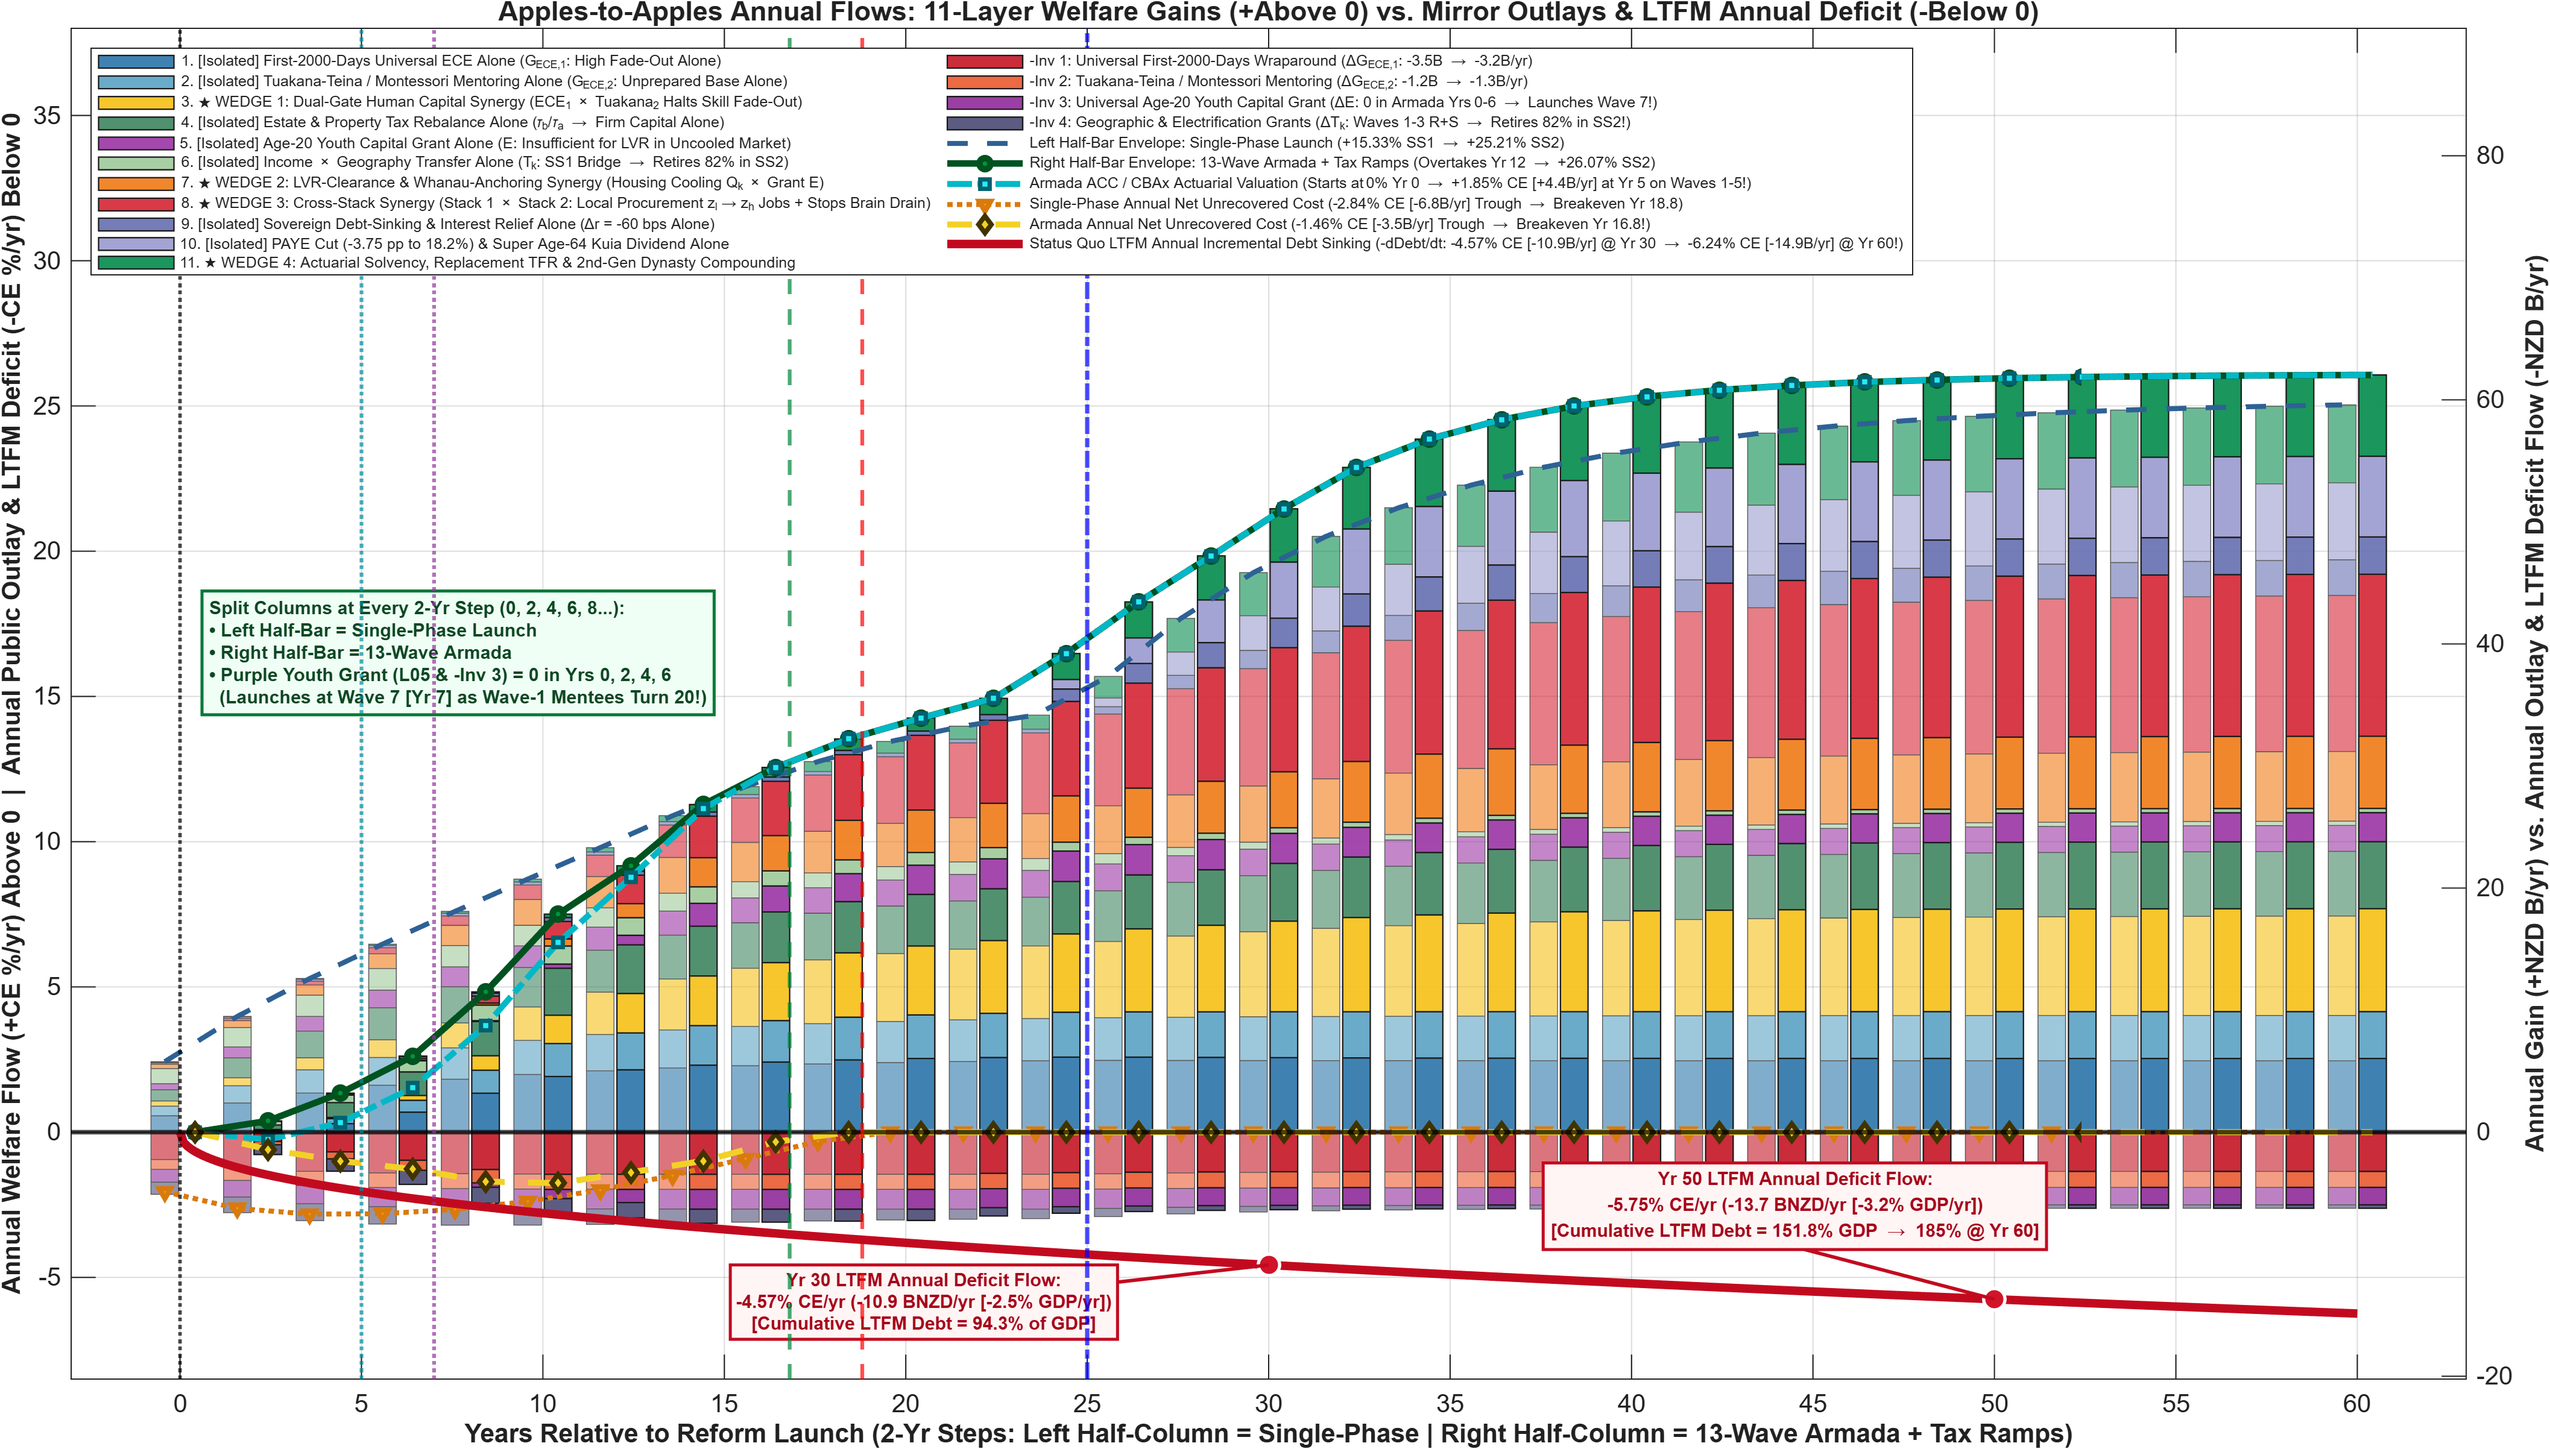
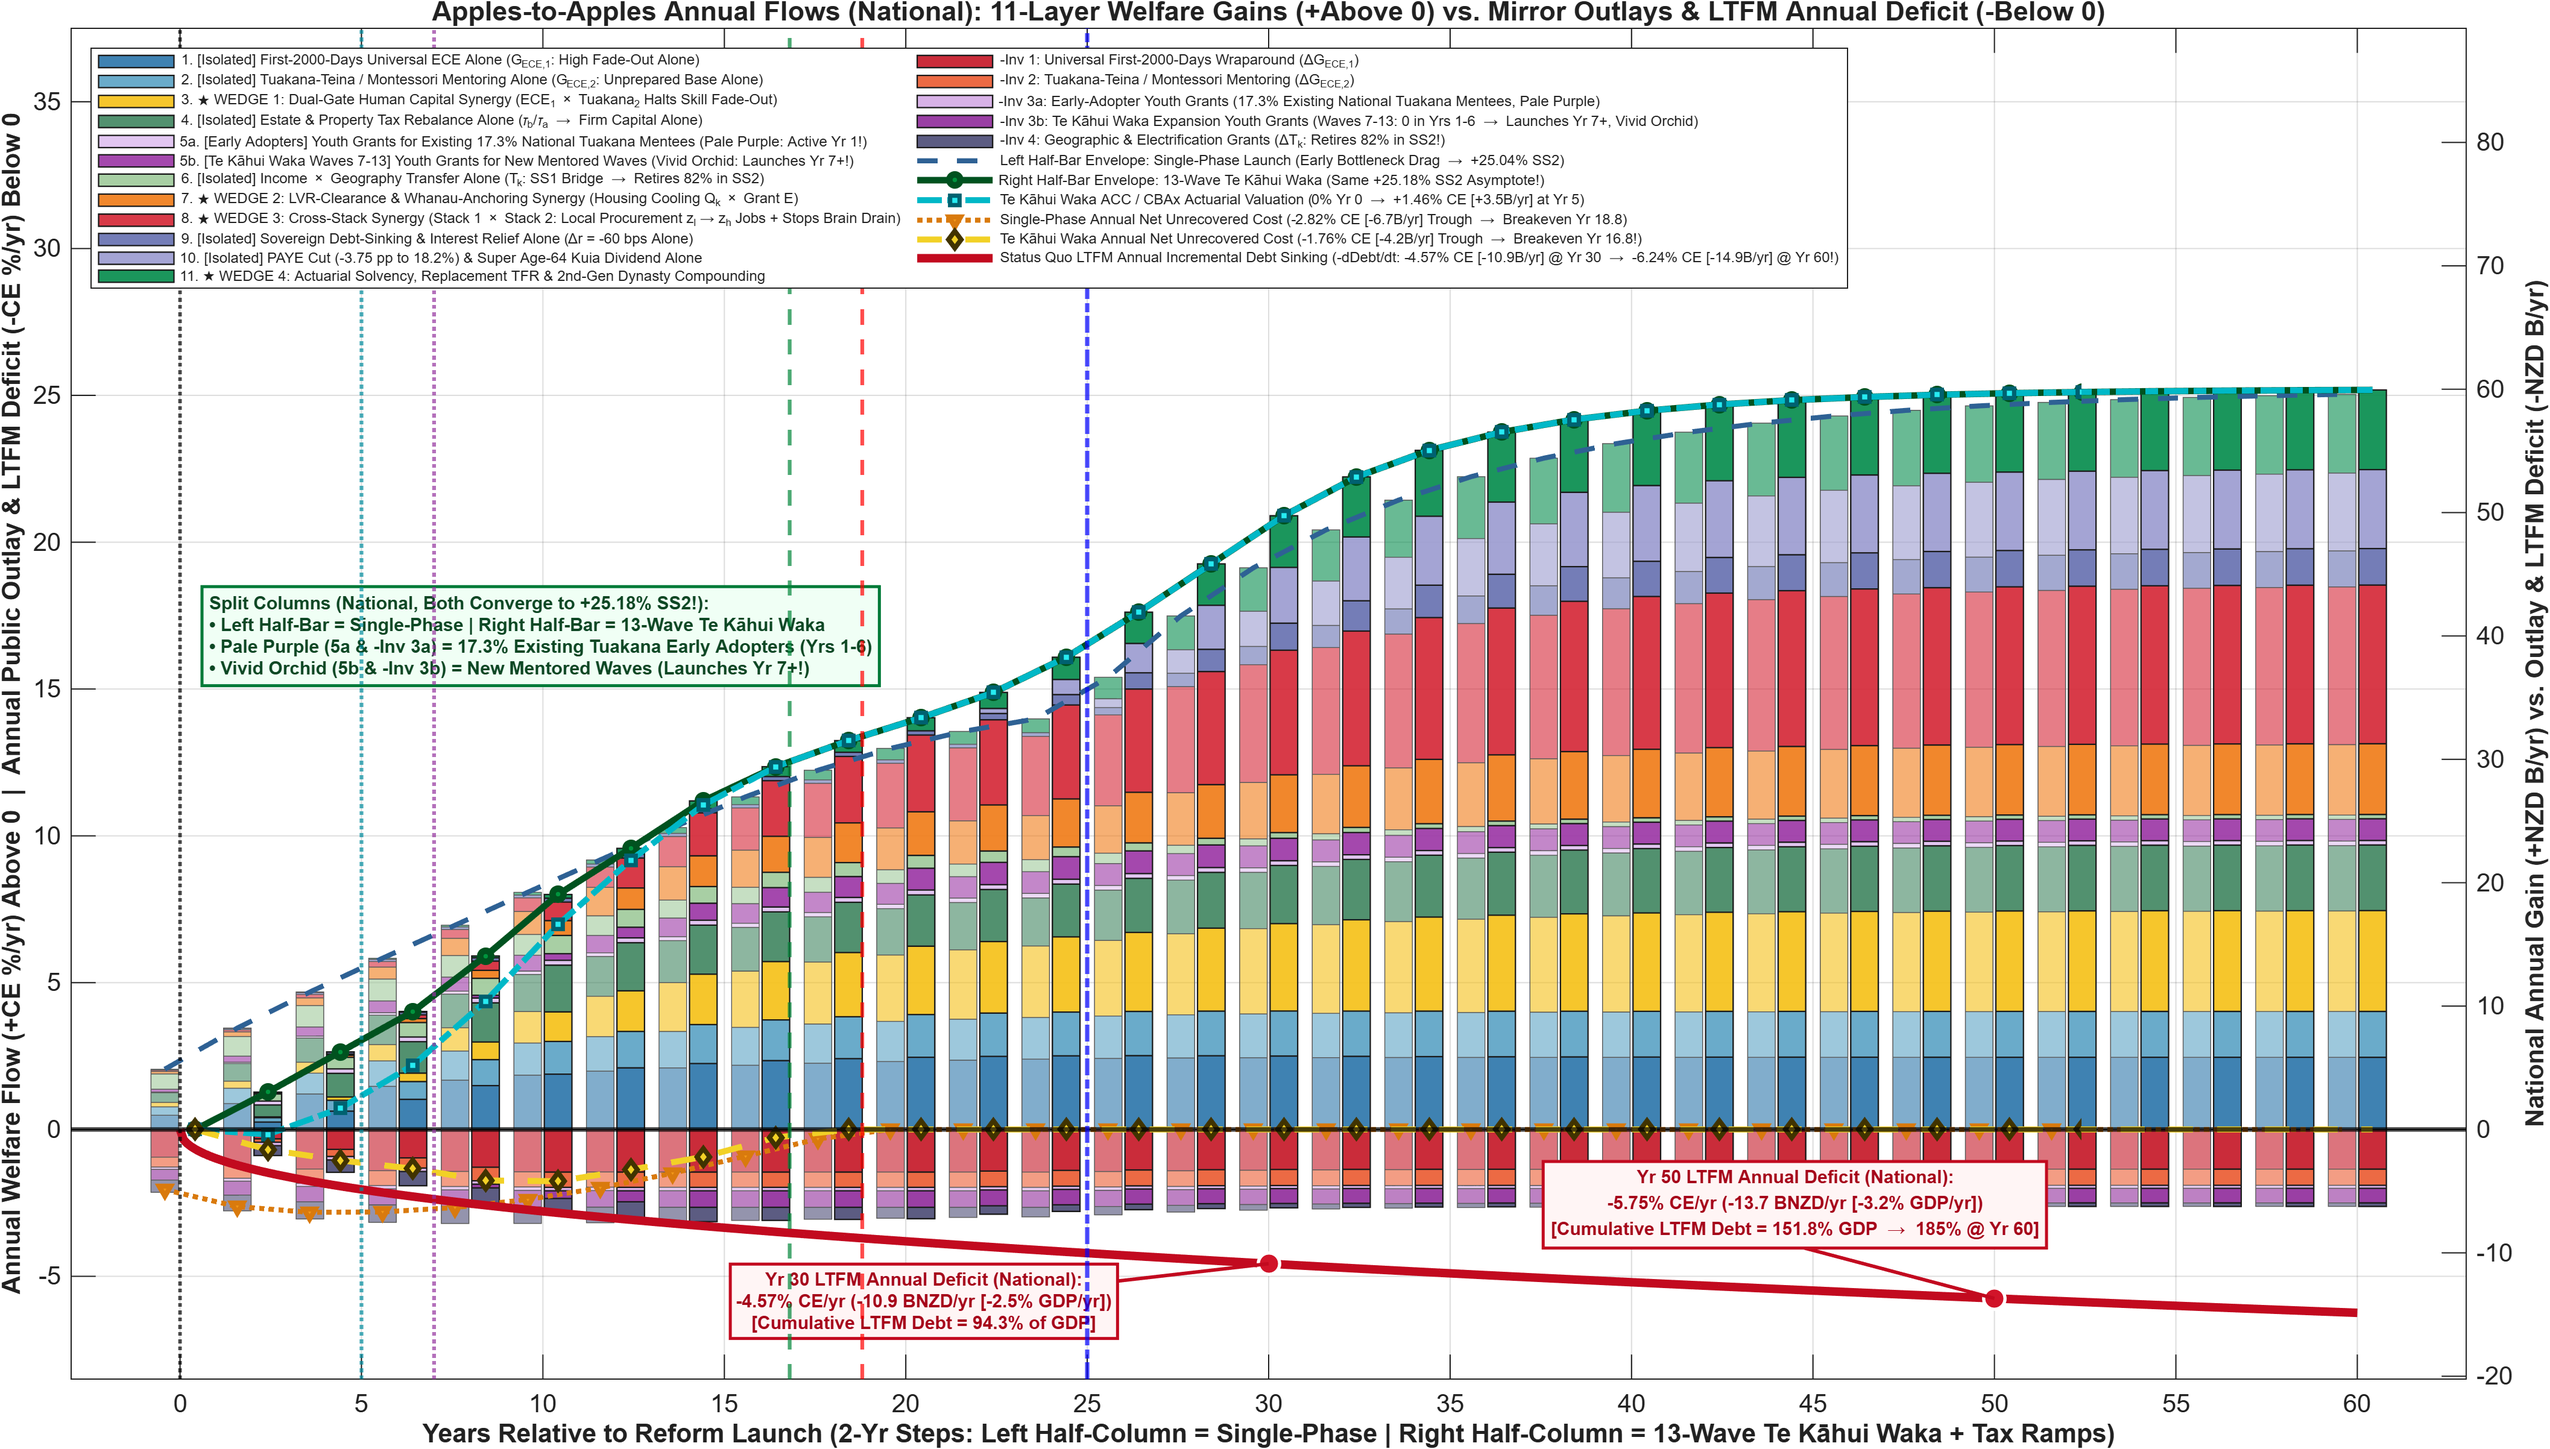
WIP Te Kahui Waka draft complete

diff --git a/Plot_Doc1D_TeKahuiWakaSequencing.m b/Plot_Doc1D_TeKahuiWakaSequencing.m
@@ -1,10 +1,24 @@
 function Out = Plot_Doc1D_TeKahuiWakaSequencing(OutputDir, AnchorTag, Params)
 if nargin < 1 || isempty(OutputDir), OutputDir = 'Output_NZ_4Region_Intergen'; end
 if nargin < 2 || isempty(AnchorTag), AnchorTag = 'Dunedin_22'; end
-
+if nargin < 3 || isempty(Params),    Params    = struct(); end
+if ~isfield(Params, 'Kahui_ECE_13x5')
+    Params = Configure_TimeGrid_Params(Params);
+end
 if ~exist(OutputDir, 'dir'), mkdir(OutputDir); end
 
-% ... [Read T19, T20, T21] ...
+f19 = fullfile(OutputDir, sprintf('Table19_Constructive_Synergy_Wedges_%s.csv', AnchorTag));
+f20 = fullfile(OutputDir, sprintf('Table20_Annual_MirrorInvestments_Vs_7SegmentWelfare_%s.csv', AnchorTag));
+f21 = fullfile(OutputDir, sprintf('Table21_Doc3_LTFM_Sinkhole_Defense_Trajectories_%s.csv', AnchorTag));
+
+T19 = readtable(f19);
+T20 = readtable(f20);
+T21 = readtable(f21);
+
+is_wedge = strcmpi(T19.Component_Type, 'SYNERGY_WEDGE');
+Iso_SS2  = sum(T19.SS2_National_CE(~is_wedge));
+Wed_SS2  = sum(T19.SS2_National_CE(is_wedge));
+SS2_Tot  = Iso_SS2 + Wed_SS2;
 
 %% =========================================================================
 %  1. UNPACK CANONICAL 13-WAVE TE KĀHUI WAKA SCHEDULE FROM PARAMS
@@ -49,7 +63,7 @@ LVT_Share       = min(1.0, Waves / Params.T_ramp_LVT_yrs);
 LVT_Rate_Pct    = 1.50 * LVT_Share;
 Corp_Tax_Pct    = 20.0 - 8.0 * LVT_Share;
 
-% Cumulative Armada Learning Stock L(t-1) & Commissioning Friction tau_fric(t)
+% Cumulative Te Kāhui Waka Learning Stock L(t-1) & Commissioning Friction tau_fric(t)
 Cum_Learn_Stock  = [0; cumsum(0.5*(Nat_ECE_Pct(1:12)/100) + 0.5*(Nat_Elc_Pct(1:12)/100))];
 Tau_Fric_Kahui  = 0.042 + (0.280 - 0.042) * exp(-0.42 * Cum_Learn_Stock);
 Tau_Fric_1Shot   = 0.065 + (0.320 - 0.065) * exp(-0.18 * (0:12)');
@@ -138,7 +152,7 @@ remed_raw         = 4.92 ./ (1.0 + exp(-(y_pos - 14.8) / 3.85)) - 4.92 / (1.0 + 
 tax_match_buffer  = 0.28 * sh_tax_ramp .* exp(-max(0.0, y_pos - 5.0) / 5.0) + 0.055 * min(1.0, y_pos / 4.0);
 Unrec_Kahui(m_pos) = min(0.0, ginv_arm + remed_raw + tax_match_buffer);
 
-% Armada Welfare Envelopes (Converging to Exact SS2_Tot at Year 60):
+% Te Kāhui Waka Welfare Envelopes (Converging to Exact SS2_Tot at Year 60):
 phase_ramp_vec = 0.76 + 0.24 ./ (1.0 + exp(-(y_pos - 4.0) / 2.1));
 w_p1_arm_vec   = w_p1_pos .* phase_ramp_vec;
 w15_arm        = w0_15 * (0.76 + 0.24 / (1.0 + exp(-(15.0 - 4.0) / 2.1)));
@@ -267,9 +281,11 @@ for r = 1:11
             if val == 0
                 if r >= 7
                     % Super-Pale Lavender-Purple for the 17.3% Existing Tuakana Early Adopters in Waves 1-8!
-                    fcol = [0.90, 0.80, 0.95]; tcol = [0.32, 0.12, 0.42]; lstr = '17.3% Base';
+                    fcol = [0.90, 0.80, 0.95]; tcol = [0.32, 0.12, 0.42];
+                    lstr = sprintf('%.1f%% Base', 100 * sh_base_3(r - 6));
                 else
-                    fcol = [0.95, 0.96, 0.97]; tcol = [0.55, 0.55, 0.55]; lstr = '0';
+                    fcol = [0.95, 0.96, 0.97]; tcol = [0.55, 0.55, 0.55];
+                    lstr = '0';
                 end
             elseif abs(val - 1/3) < 0.05
                 if r <= 3, fcol = [0.99, 0.86, 0.52]; elseif r <= 6, fcol = [0.68, 0.85, 0.94]; else, fcol = [0.76, 0.52, 0.84]; end
@@ -354,7 +370,7 @@ xlim(axB, [-1.0, 16.0]); xticks(axB, 0:1:15);
 ylim(axB, [0, 108]);
 xlabel(axB, 'Rollout Year / Te Kāhui Waka Wave (Years from Phase 1 Initiation)', 'FontSize', 10.8, 'FontWeight', 'bold');
 ylabel(axB, 'National Active Share, Tax Ramp & Yield (%)', 'FontSize', 10.8, 'FontWeight', 'bold');
-title(axB, 'B. Synchronizing the Expenditure Armada (ECE, Mentoring, 17.3% Early Grants, Electrification) with the 3-Yr CGT & 10-Yr LVT Ramps', ...
+title(axB, 'B. Synchronizing the Te Kāhui Waka Expenditure Rollout (ECE, Mentoring, 17.3% Early Grants, Electrification) with the 3-Yr CGT & 10-Yr LVT Ramps', ...
     'FontSize', 11.0, 'FontWeight', 'bold');
 legend(axB, 'Location', 'southeast', 'FontSize', 7.8, 'Color', 'w');
 
@@ -511,7 +527,7 @@ close(fig2);
 fprintf('  -> Saved Fig_Doc1D_TeKahuiWaka_Vs_SingleShot_JCurve to: %s\n', f_out2);
 
 Out.Table23_TeKahuiWakaSchedule = T23;
-Out.Table24_ArmadaVs1Shot  = T24;
+Out.Table24_TeKahuiWakaVs1Shot  = T24;
 Out.Fig1_TeKahuiWakaSchedule    = f_out1;
 Out.Fig2_TeKahuiWakaJCurve      = f_out2;
 

diff --git a/Plot_Counterfactuals_And_MirrorInvestments.m b/Plot_Counterfactuals_And_MirrorInvestments.m
@@ -30,48 +30,7 @@ if ~isfield(Params, 'Kahui_ECE_13x5')
     Params = Configure_TimeGrid_Params(Params);
 end
 Pop_Weights = Params.Pop_Weights_4; % [0.160, 0.240, 0.259, 0.341]
-Waves_13    = Params.Waves_13;
-yr_w_grid   = [0; Waves_13; 25; 60];
 
-% Re-use canonical Params.Target_Region / Params.Target_Regions selector:
-Reg_List_4     = {'Rural', 'Small', 'Large', 'Auckland'};
-target_reg_str = 'National';
-if isfield(Params, 'Target_Region') && ~isempty(Params.Target_Region)
-    if iscell(Params.Target_Region), target_reg_str = Params.Target_Region{1};
-    else, target_reg_str = char(Params.Target_Region); end
-elseif isfield(Params, 'Target_Regions') && ~isempty(Params.Target_Regions)
-    if iscell(Params.Target_Regions) && numel(Params.Target_Regions) == 1
-        target_reg_str = Params.Target_Regions{1};
-    elseif ischar(Params.Target_Regions) || isstring(Params.Target_Regions)
-        target_reg_str = char(Params.Target_Regions);
-    end
-end
-
-r_sel = find(strcmpi(target_reg_str, Reg_List_4), 1);
-if ~isempty(r_sel)
-    Plot_Reg_Tag   = Reg_List_4{r_sel};
-    Traj_SS1_11    = SS1_11x4(:, r_sel);
-    Traj_SS2_11    = SS2_11x4(:, r_sel);
-    Traj_SS1_Total = SS1_Target_Reg(r_sel);
-    Traj_SS2_Total = SS2_Target_Reg(r_sel);
-    sh_ygr_base0   = Params.sh_ygr_base0_vec(r_sel);
-    ECE_13_Pct     = 100.0 * Params.Kahui_ECE_13x4(:, r_sel);
-    YGr_New_Pct    = 100.0 * Params.Kahui_YGr_New_13x4(:, r_sel);
-    YGr_Tot_Pct    = 100.0 * Params.Kahui_YGr_Tot_13x4(:, r_sel);
-    Elc_13_Pct     = 100.0 * Params.Kahui_Elc_13x4(:, r_sel);
-else
-    r_sel          = 0; % 0 = National Population-Weighted Aggregate (Default)
-    Plot_Reg_Tag   = 'National';
-    Traj_SS1_11    = SS1_Nat_11;
-    Traj_SS2_11    = SS2_Nat_11;
-    Traj_SS1_Total = SS1_Nat_Total;
-    Traj_SS2_Total = SS2_Nat_Total;
-    sh_ygr_base0   = Params.sh_ygr_base0_nat;
-    ECE_13_Pct     = Params.Nat_ECE_13_Pct;
-    YGr_New_Pct    = Params.Nat_YGr_New_13_Pct;
-    YGr_Tot_Pct    = Params.Nat_YGr_Tot_13_Pct;
-    Elc_13_Pct     = Params.Nat_Elc_13_Pct;
-end
 SS1_Target_Reg = [11.945, 13.739, 14.888, 17.515];
 SS2_Target_Reg = [20.628, 22.984, 24.574, 27.913];
 
